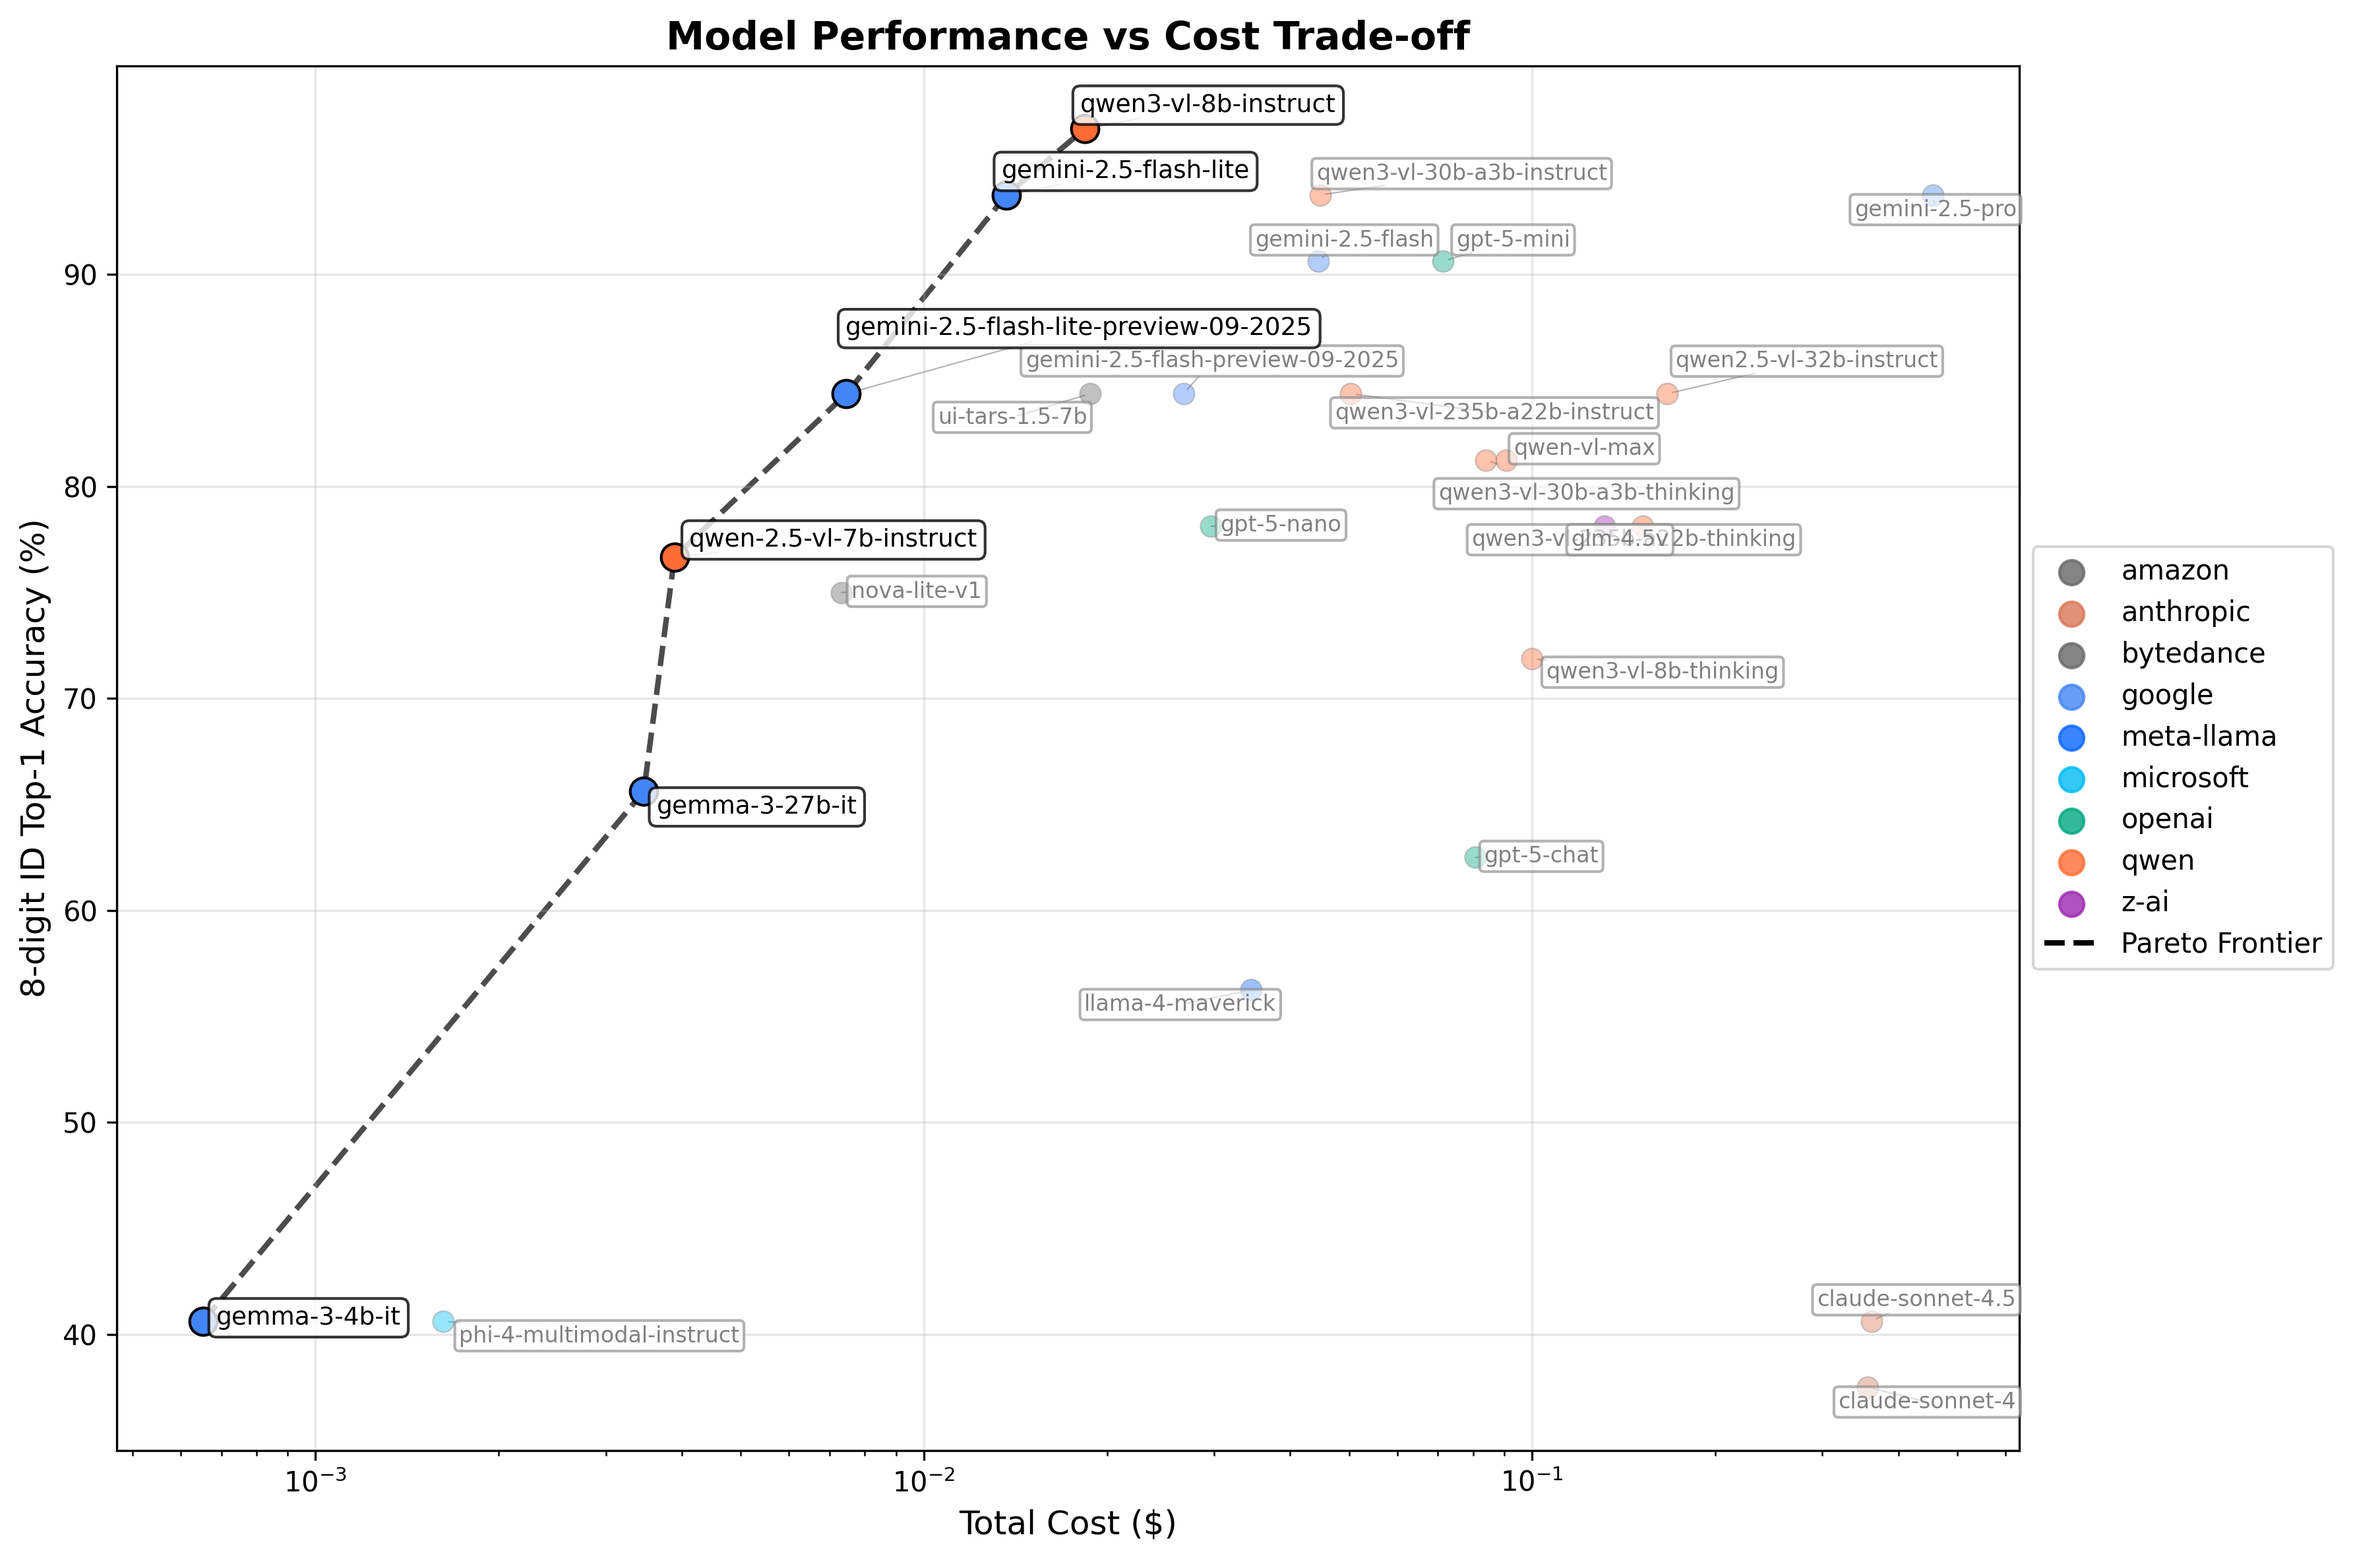
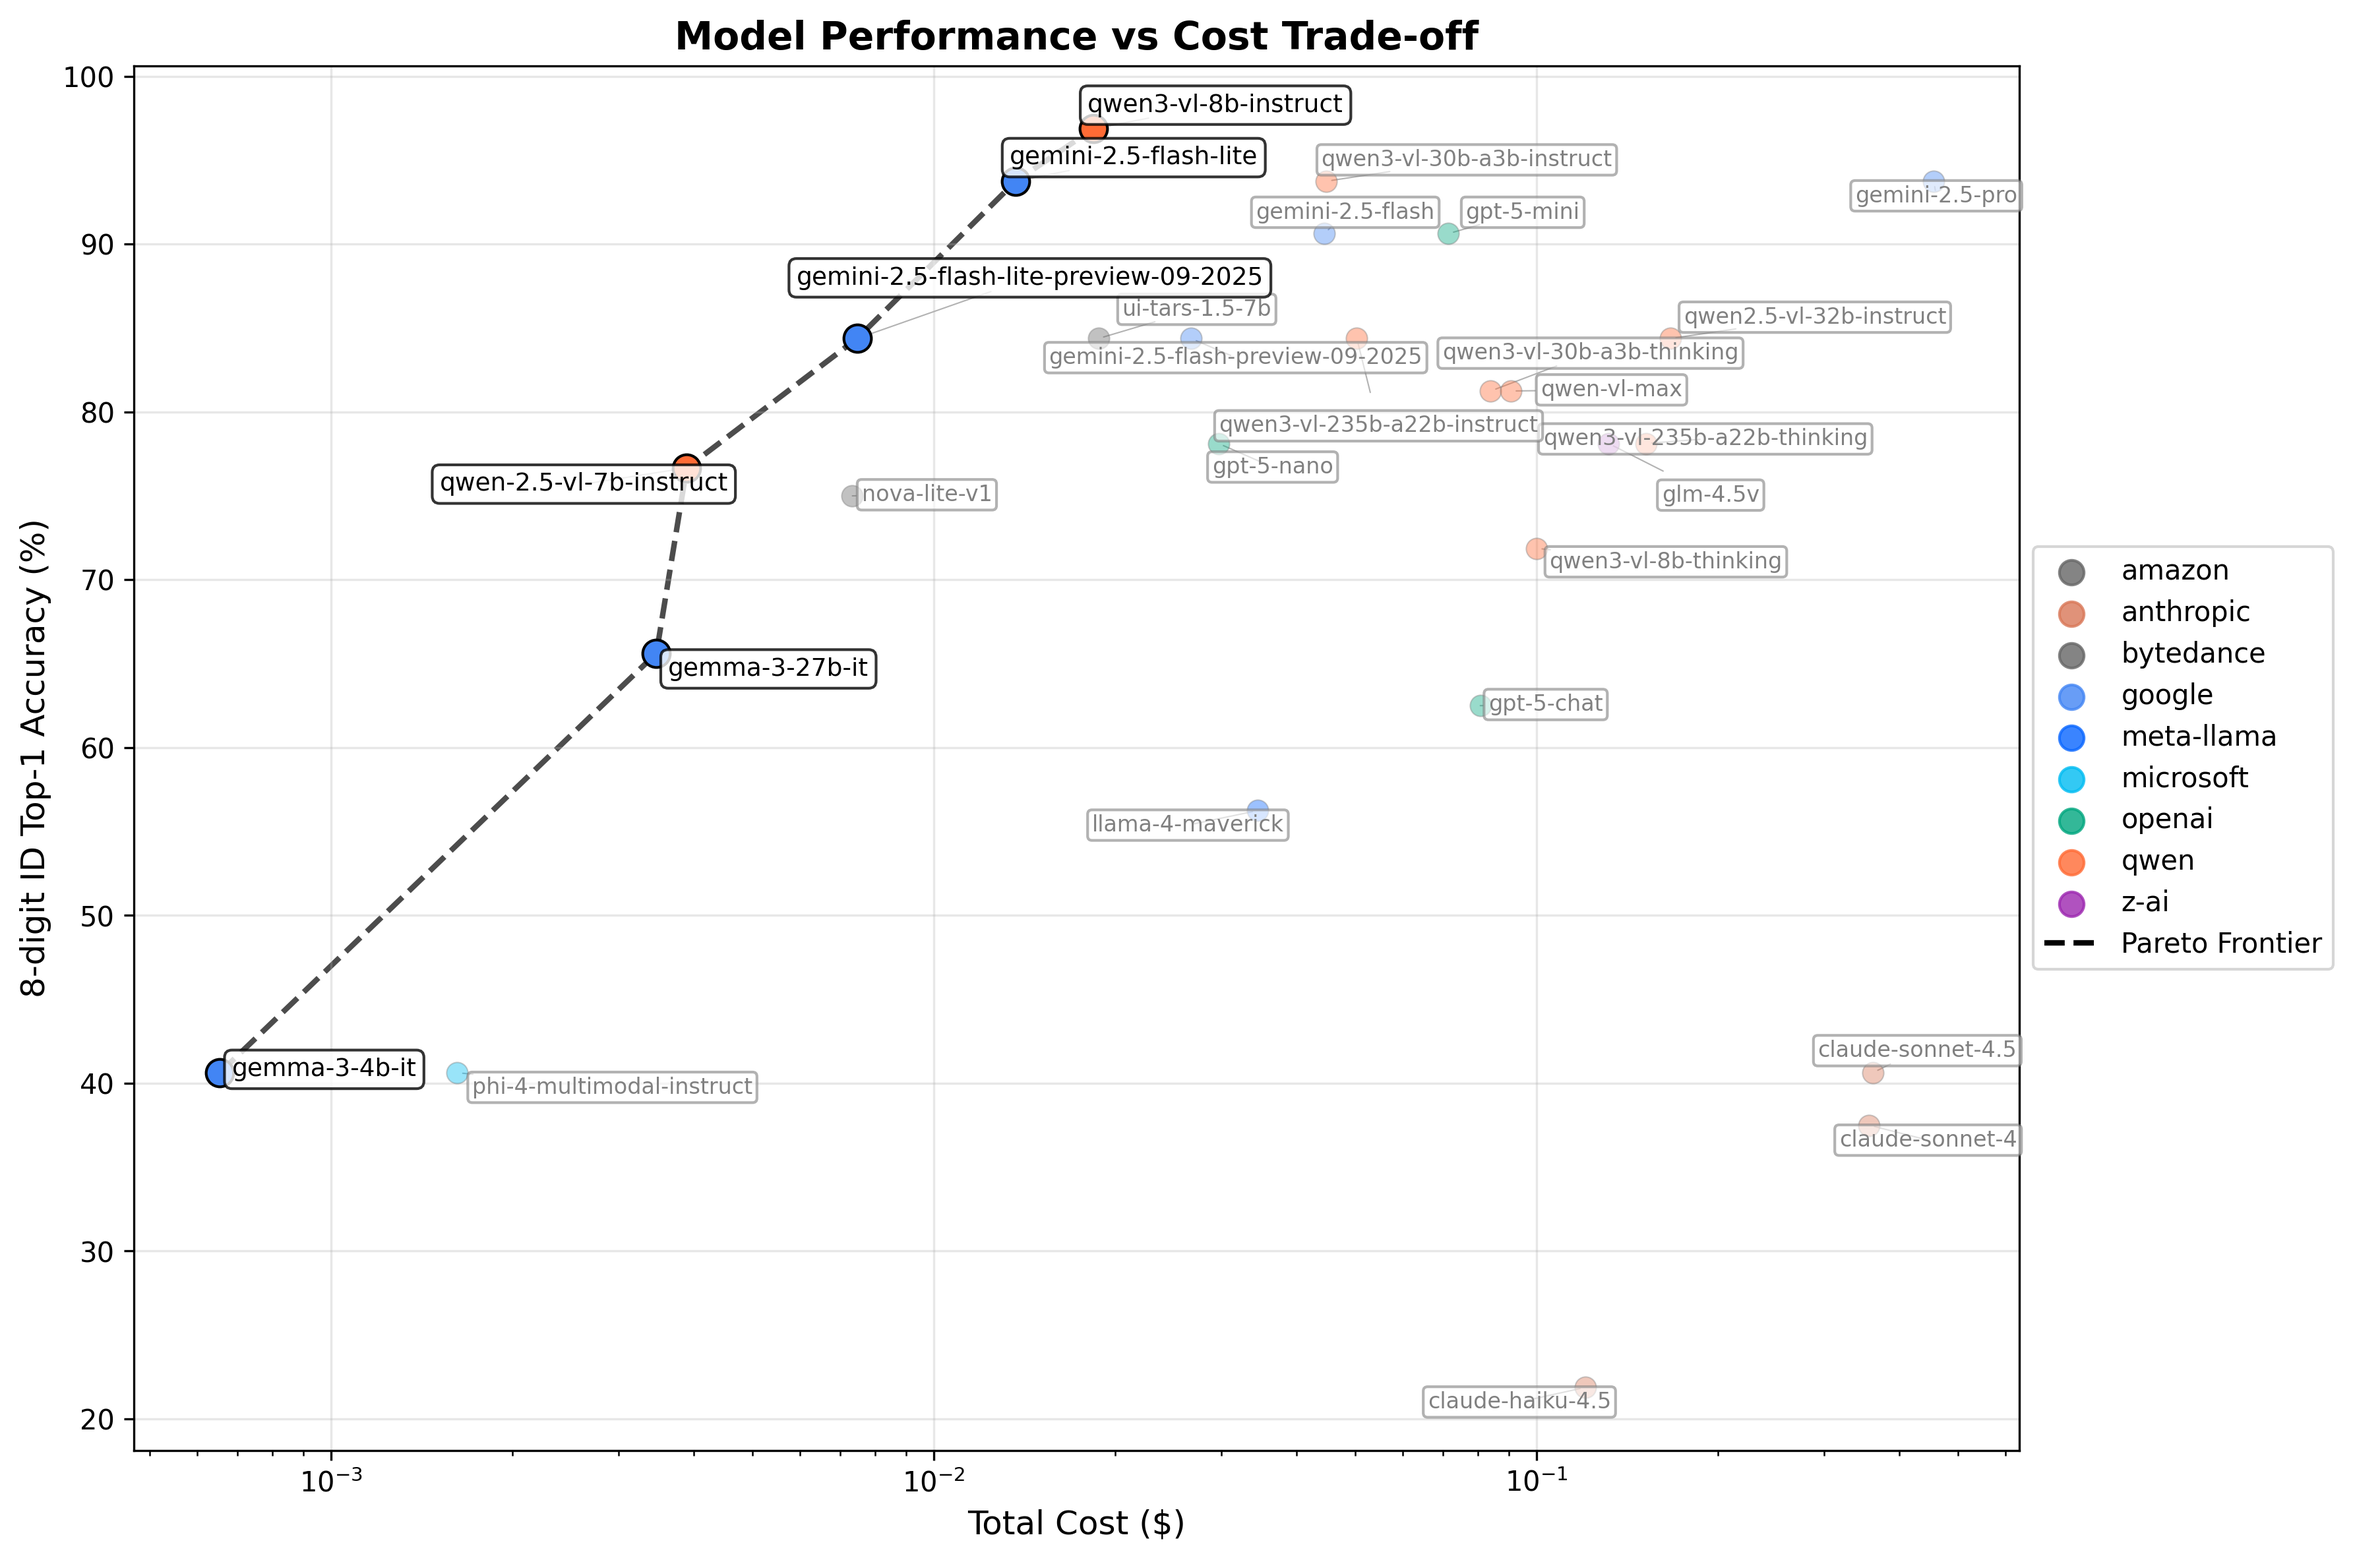
Update benchmark results and model metadata; add new anthropic/claude-haiku-4.5 model and modify Pareto plot

diff --git a/BENCHMARKS.md b/BENCHMARKS.md
@@ -34,16 +34,16 @@ All VLM runs use the following consistent configuration:
 ## Complete Results
 
 
-| **Metric** | **OpenCV+CNN** | **qwen**<br>qwen3-vl-8b-thinking | **qwen**<br>qwen3-vl-8b-instruct | **qwen**<br>qwen3-vl-30b-a3b-instruct | **qwen**<br>qwen3-vl-30b-a3b-thinking | **qwen**<br>qwen-vl-max | **qwen**<br>qwen3-vl-235b-a22b-thinking | **qwen**<br>qwen3-vl-235b-a22b-instruct | **qwen**<br>qwen-2.5-vl-7b-instruct | **qwen**<br>qwen2.5-vl-32b-instruct | **google**<br>gemini-2.5-flash-preview-09-2025 | **google**<br>gemini-2.5-flash-lite-preview-09-2025 | **google**<br>gemini-2.5-pro | **google**<br>gemini-2.5-flash-lite | **google**<br>gemma-3-27b-it | **google**<br>gemma-3-4b-it | **google**<br>gemini-2.5-flash | **anthropic**<br>claude-sonnet-4.5 | **anthropic**<br>claude-sonnet-4 | **openai**<br>gpt-5-chat | **openai**<br>gpt-5-mini | **openai**<br>gpt-5-nano | **amazon**<br>nova-lite-v1 | **microsoft**<br>phi-4-multimodal-instruct | **bytedance**<br>ui-tars-1.5-7b | **meta-llama**<br>llama-4-maverick | **moonshotai**<br>kimi-vl-a3b-thinking:free | **z-ai**<br>glm-4.5v |
-|:---|:---|:---|:---|:---|:---|:---|:---|:---|:---|:---|:---|:---|:---|:---|:---|:---|:---|:---|:---|:---|:---|:---|:---|:---|:---|:---|:---|:---|
-| LLM model size | N/A | 8B | 8B | 30A3 | 30A3 | ?? | 235A22 | 235A22 | 7B | 32B | ?? | ?? | ?? | ?? | 27B | 4B | ?? | ?? | ?? | ?? | ?? | ?? | ?? | 5.6B | 7B | 400A17 | 16A3 | 106A12 |
-| Open-weights | N/A | Yes | Yes | Yes | Yes | No | Yes | Yes | Yes | Yes | No | No | No | No | Yes | Yes | No | No | No | No | No | No | No | Yes | Yes | Yes | Yes | Yes |
-| digit_top1 | 85.16% | 92.19% | **99.61%** | 99.22% | 97.27% | 97.27% | 94.53% | 97.66% | 82.08% | 96.09% | 98.05% | 97.66% | 99.22% | 99.22% | 89.45% | 75.00% | 98.83% | 82.81% | 84.77% | 89.84% | 98.83% | 96.48% | 89.06% | 71.48% | 96.48% | 89.84% | 85.94% | 93.36% |
-| 8-digit id_top1 | ?? | 71.88% | **96.88%** | 93.75% | 81.25% | 81.25% | 78.12% | 84.38% | 76.67% | 84.38% | 84.38% | 84.38% | 93.75% | 93.75% | 65.62% | 40.62% | 90.62% | 40.62% | 37.50% | 62.50% | 90.62% | 78.12% | 75.00% | 40.62% | 84.38% | 56.25% | 50.00% | 78.12% |
-| lastname_top1 | N/A | 90.62% | 96.88% | 93.75% | 93.75% | 96.88% | **100.00%** | 96.88% | **100.00%** | **100.00%** | 96.88% | 96.88% | 96.88% | 93.75% | **100.00%** | 90.62% | 96.88% | 93.75% | **100.00%** | **100.00%** | 96.88% | 90.62% | 96.88% | **100.00%** | 96.88% | 93.75% | 96.88% | **100.00%** |
-| ID Avg d_Lev | N/A | 0.5000 | **0.0312** | 0.0625 | 0.2188 | 0.2188 | 0.4688 | 0.1875 | 1.6333 | 0.1562 | 0.1562 | 0.1875 | 0.0625 | 0.0625 | 0.5000 | 0.9688 | 0.0938 | 1.0000 | 1.0938 | 0.5312 | 0.0938 | 0.2188 | 0.3750 | 1.2188 | 0.1562 | 0.5312 | 0.9062 | 0.2188 |
-| Lastname Avg d_Lev | N/A | 0.3125 | 0.0625 | 0.1875 | 0.0625 | 0.0312 | **0.0000** | 0.0312 | **0.0000** | **0.0000** | 0.0312 | 0.0312 | 0.0312 | 0.0625 | **0.0000** | 0.1250 | 0.0312 | 0.0938 | **0.0000** | **0.0000** | 0.0312 | 0.1250 | 0.0312 | **0.0000** | 0.0312 | 0.0938 | 0.0938 | **0.0000** |
-| Docs detected | 90.62% (29/32) | **100.00% (32/32)** | **100.00% (32/32)** | **100.00% (32/32)** | **100.00% (32/32)** | **100.00% (32/32)** | **100.00% (32/32)** | **100.00% (32/32)** | 93.75% (30/32) | **100.00% (32/32)** | **100.00% (32/32)** | **100.00% (32/32)** | **100.00% (32/32)** | **100.00% (32/32)** | **100.00% (32/32)** | **100.00% (32/32)** | **100.00% (32/32)** | **100.00% (32/32)** | **100.00% (32/32)** | **100.00% (32/32)** | **100.00% (32/32)** | **100.00% (32/32)** | **100.00% (32/32)** | **100.00% (32/32)** | **100.00% (32/32)** | **100.00% (32/32)** | **100.00% (32/32)** | **100.00% (32/32)** |
-| Runtime | **~1 second** | 14.4 minutes | 4.5 minutes | 2.3 minutes | 6.3 minutes | 4.5 minutes | 13.9 minutes | 4.5 minutes | 6.8 minutes | 2.3 minutes | 4.4 minutes | 4.4 minutes | 8.0 minutes | 2.3 minutes | 2.6 minutes | 2.0 minutes | 2.7 minutes | 5.4 minutes | 3.5 minutes | 2.8 minutes | 8.3 minutes | 10.5 minutes | 1.7 minutes | 2.1 minutes | 1.8 minutes | 2.0 minutes | 9.5 minutes | 6.2 minutes |
-| Cost per image | **$0.00** | $0.001563 | $0.000302 | $0.000700 | $0.001311 | $0.001415 | $0.002376 | $0.000786 | $0.000081 | $0.002605 | $0.000418 | $0.000117 | $0.007125 | $0.000214 | $0.000054 | $0.000010 | $0.000695 | $0.005646 | $0.005567 | $0.001260 | $0.001115 | $0.000463 | $0.000114 | $0.000025 | $0.000293 | $0.000539 | **$0.000000** | $0.002057 |
-| Total cost | **$0.00** | $0.1000 | $0.0184 | $0.0448 | $0.0839 | $0.0906 | $0.1521 | $0.0503 | $0.0039 | $0.1667 | $0.0267 | $0.0075 | $0.4560 | $0.0137 | $0.0035 | $0.0007 | $0.0445 | $0.3614 | $0.3563 | $0.0807 | $0.0714 | $0.0297 | $0.0073 | $0.0016 | $0.0187 | $0.0345 | **$0.0000** | $0.1316 |
+| **Metric** | **OpenCV+CNN** | **anthropic**<br>claude-haiku-4.5 | **anthropic**<br>claude-sonnet-4.5 | **anthropic**<br>claude-sonnet-4 | **qwen**<br>qwen3-vl-8b-thinking | **qwen**<br>qwen3-vl-8b-instruct | **qwen**<br>qwen3-vl-30b-a3b-instruct | **qwen**<br>qwen3-vl-30b-a3b-thinking | **qwen**<br>qwen-vl-max | **qwen**<br>qwen3-vl-235b-a22b-thinking | **qwen**<br>qwen3-vl-235b-a22b-instruct | **qwen**<br>qwen-2.5-vl-7b-instruct | **qwen**<br>qwen2.5-vl-32b-instruct | **google**<br>gemini-2.5-flash-preview-09-2025 | **google**<br>gemini-2.5-flash-lite-preview-09-2025 | **google**<br>gemini-2.5-pro | **google**<br>gemini-2.5-flash-lite | **google**<br>gemma-3-27b-it | **google**<br>gemma-3-4b-it | **google**<br>gemini-2.5-flash | **openai**<br>gpt-5-chat | **openai**<br>gpt-5-mini | **openai**<br>gpt-5-nano | **amazon**<br>nova-lite-v1 | **microsoft**<br>phi-4-multimodal-instruct | **bytedance**<br>ui-tars-1.5-7b | **meta-llama**<br>llama-4-maverick | **moonshotai**<br>kimi-vl-a3b-thinking:free | **z-ai**<br>glm-4.5v |
+|:---|:---|:---|:---|:---|:---|:---|:---|:---|:---|:---|:---|:---|:---|:---|:---|:---|:---|:---|:---|:---|:---|:---|:---|:---|:---|:---|:---|:---|:---|
+| LLM model size | N/A | ?? | ?? | ?? | 8B | 8B | 30A3 | 30A3 | ?? | 235A22 | 235A22 | 7B | 32B | ?? | ?? | ?? | ?? | 27B | 4B | ?? | ?? | ?? | ?? | ?? | 5.6B | 7B | 400A17 | 16A3 | 106A12 |
+| Open-weights | N/A | No | No | No | Yes | Yes | Yes | Yes | No | Yes | Yes | Yes | Yes | No | No | No | No | Yes | Yes | No | No | No | No | No | Yes | Yes | Yes | Yes | Yes |
+| digit_top1 | 85.16% | 74.22% | 82.81% | 84.77% | 92.19% | **99.61%** | 99.22% | 97.27% | 97.27% | 94.53% | 97.66% | 82.08% | 96.09% | 98.05% | 97.66% | 99.22% | 99.22% | 89.45% | 75.00% | 98.83% | 89.84% | 98.83% | 96.48% | 89.06% | 71.48% | 96.48% | 89.84% | 85.94% | 93.36% |
+| 8-digit id_top1 | ?? | 21.88% | 40.62% | 37.50% | 71.88% | **96.88%** | 93.75% | 81.25% | 81.25% | 78.12% | 84.38% | 76.67% | 84.38% | 84.38% | 84.38% | 93.75% | 93.75% | 65.62% | 40.62% | 90.62% | 62.50% | 90.62% | 78.12% | 75.00% | 40.62% | 84.38% | 56.25% | 50.00% | 78.12% |
+| lastname_top1 | N/A | 93.75% | 93.75% | **100.00%** | 90.62% | 96.88% | 93.75% | 93.75% | 96.88% | **100.00%** | 96.88% | **100.00%** | **100.00%** | 96.88% | 96.88% | 96.88% | 93.75% | **100.00%** | 90.62% | 96.88% | **100.00%** | 96.88% | 90.62% | 96.88% | **100.00%** | 96.88% | 93.75% | 96.88% | **100.00%** |
+| ID Avg d_Lev | N/A | 1.4062 | 1.0000 | 1.0938 | 0.5000 | **0.0312** | 0.0625 | 0.2188 | 0.2188 | 0.4688 | 0.1875 | 1.6333 | 0.1562 | 0.1562 | 0.1875 | 0.0625 | 0.0625 | 0.5000 | 0.9688 | 0.0938 | 0.5312 | 0.0938 | 0.2188 | 0.3750 | 1.2188 | 0.1562 | 0.5312 | 0.9062 | 0.2188 |
+| Lastname Avg d_Lev | N/A | 0.2188 | 0.0938 | **0.0000** | 0.3125 | 0.0625 | 0.1875 | 0.0625 | 0.0312 | **0.0000** | 0.0312 | **0.0000** | **0.0000** | 0.0312 | 0.0312 | 0.0312 | 0.0625 | **0.0000** | 0.1250 | 0.0312 | **0.0000** | 0.0312 | 0.1250 | 0.0312 | **0.0000** | 0.0312 | 0.0938 | 0.0938 | **0.0000** |
+| Docs detected | 90.62% (29/32) | **100.00% (32/32)** | **100.00% (32/32)** | **100.00% (32/32)** | **100.00% (32/32)** | **100.00% (32/32)** | **100.00% (32/32)** | **100.00% (32/32)** | **100.00% (32/32)** | **100.00% (32/32)** | **100.00% (32/32)** | 93.75% (30/32) | **100.00% (32/32)** | **100.00% (32/32)** | **100.00% (32/32)** | **100.00% (32/32)** | **100.00% (32/32)** | **100.00% (32/32)** | **100.00% (32/32)** | **100.00% (32/32)** | **100.00% (32/32)** | **100.00% (32/32)** | **100.00% (32/32)** | **100.00% (32/32)** | **100.00% (32/32)** | **100.00% (32/32)** | **100.00% (32/32)** | **100.00% (32/32)** | **100.00% (32/32)** |
+| Runtime | **~1 second** | 5.0 minutes | 5.4 minutes | 3.5 minutes | 14.4 minutes | 4.5 minutes | 2.3 minutes | 6.3 minutes | 4.5 minutes | 13.9 minutes | 4.5 minutes | 6.8 minutes | 2.3 minutes | 4.4 minutes | 4.4 minutes | 8.0 minutes | 2.3 minutes | 2.6 minutes | 2.0 minutes | 2.7 minutes | 2.8 minutes | 8.3 minutes | 10.5 minutes | 1.7 minutes | 2.1 minutes | 1.8 minutes | 2.0 minutes | 9.5 minutes | 6.2 minutes |
+| Cost per image | **$0.00** | $0.001882 | $0.005646 | $0.005567 | $0.001563 | $0.000302 | $0.000700 | $0.001311 | $0.001415 | $0.002376 | $0.000786 | $0.000081 | $0.002605 | $0.000418 | $0.000117 | $0.007125 | $0.000214 | $0.000054 | $0.000010 | $0.000695 | $0.001260 | $0.001115 | $0.000463 | $0.000114 | $0.000025 | $0.000293 | $0.000539 | **$0.000000** | $0.002057 |
+| Total cost | **$0.00** | $0.1205 | $0.3614 | $0.3563 | $0.1000 | $0.0184 | $0.0448 | $0.0839 | $0.0906 | $0.1521 | $0.0503 | $0.0039 | $0.1667 | $0.0267 | $0.0075 | $0.4560 | $0.0137 | $0.0035 | $0.0007 | $0.0445 | $0.0807 | $0.0714 | $0.0297 | $0.0073 | $0.0016 | $0.0187 | $0.0345 | **$0.0000** | $0.1316 |
